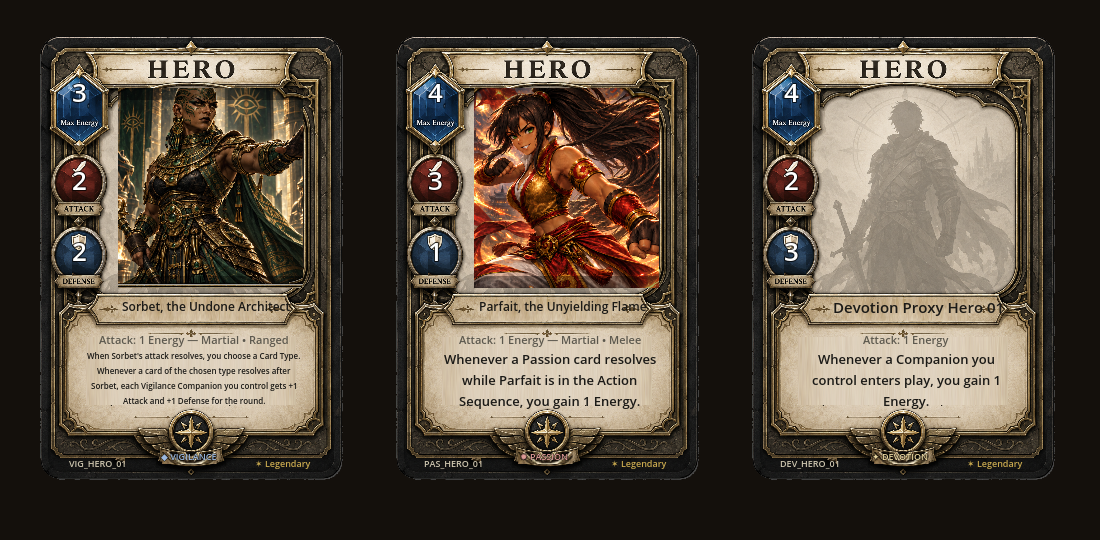
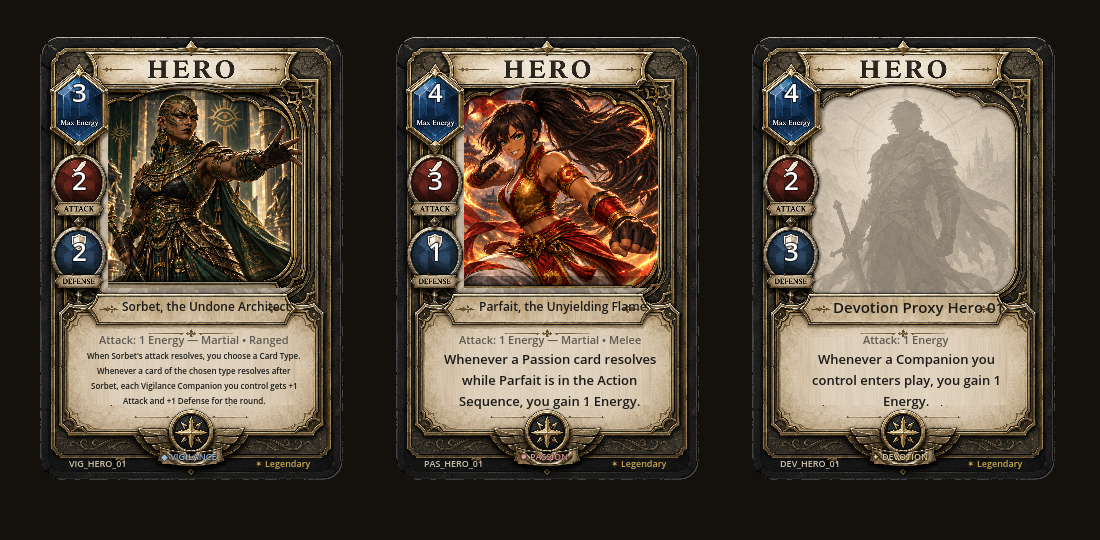
Fix the Hero art window, and re-cut both portraits to it
The art window in the Hero frame was measured by eye and was wrong: it sat
34 pixels inside the painted window's left edge, and its proportions were
0.928 rather than the 0.974 the frame actually paints. Both portraits had been
cut to that wrong shape, and because art is scaled to cover its window and
clipped, the error took whatever was nearest the edges. Sorbet reaches to the
right of her card, so what it took was her outstretched hand. Parfait lost part
of her right fist the same way.

The window is now measured from the frame itself — x 262 to 890, y 198 to 845
on the 1060x1484 template — and the slot set just inside it. Both portraits are
re-cut from their supplied card faces at their own windows, at the corrected
aspect, Sorbet's flush with the right edge of hers so her hand stays in frame
and the width that has to go comes off the background instead.

docs/ADDING_CARDS.md now carries the recipe and the crop rectangles in use, so
the next card is cut to the window rather than to a guess, and says how to
check it: render the card large and compare against the supplied face, because
a thumbnail will not show a hand missing from the edge.

Claude-Session: https://claude.ai/code/session_01FqpqEYH3RyaCaGf7y5ZbA3

Changed region(s): [[0.4018, 0.1481, 0.6182, 0.5333], [0.0927, 0.1481, 0.2782, 0.5333]]

diff --git a/docs/ADDING_CARDS.md b/docs/ADDING_CARDS.md
@@ -118,10 +118,37 @@ A card opts out with `"frame": "plain"`, which draws the laid-out face instead.
 That is for a card finished before its type has a frame, so it can keep the look
 it shipped with. No card uses it at the moment.
 
-A card's art should be cropped to the proportions of its frame's art window —
-for the Hero frame, the `"art"` slot in `src/ui/card_view.gd`, which is roughly
-5 wide to 5.4 tall. Art of another shape still works: it is scaled to cover the
-window and cropped, rather than squashed.
+### Cropping the art
+
+A card's art is scaled to **cover** its frame's window and clipped, never
+squashed, so a crop of the wrong shape silently loses whatever is nearest the
+edges. The Hero frame's window is the `"art"` slot in `src/ui/card_view.gd`:
+0.589 of the card wide by 0.432 tall, which on a 5:7 card is an aspect of
+**0.974** — very slightly taller than it is wide.
+
+When a supplied card face is the source, cut the portrait from **that card's own
+art window**, at that aspect:
+
+1. Find the window's inner edges on the supplied image. Crop a narrow strip
+   across each edge and read off where the ornate border stops — every card
+   face is a different size, so these cannot be assumed from another card.
+2. If the window is wider than 0.974, the full height fits and some width has
+   to go: choose which side deliberately. Sorbet reaches to the right of her
+   window, so her crop is taken flush with the window's right edge and gives up
+   background on the left.
+3. `tools/crop_art.gd` does the cut:
+   `godot --headless --path . --script tools/crop_art.gd -- SRC DST X Y W H`.
+
+The crops in use, for reference:
+
+| Card | Source window | Crop taken |
+| --- | --- | --- |
+| Parfait | x 252–948, y 170–890 | `252 172 696 715` |
+| Sorbet | x 248–978, y 150–875 | `272 150 706 725` |
+
+Getting this wrong is not obvious from a thumbnail. Check it by rendering the
+card large and comparing against the supplied face — an arm or a hand reaching
+for the edge of the frame is exactly what a too-tight crop takes first.
 
 To give another type a frame: add the painted template to `assets/frames/`,
 teach `tools/prepare_hero_frame.gd` to paint its placeholder text out, and add
